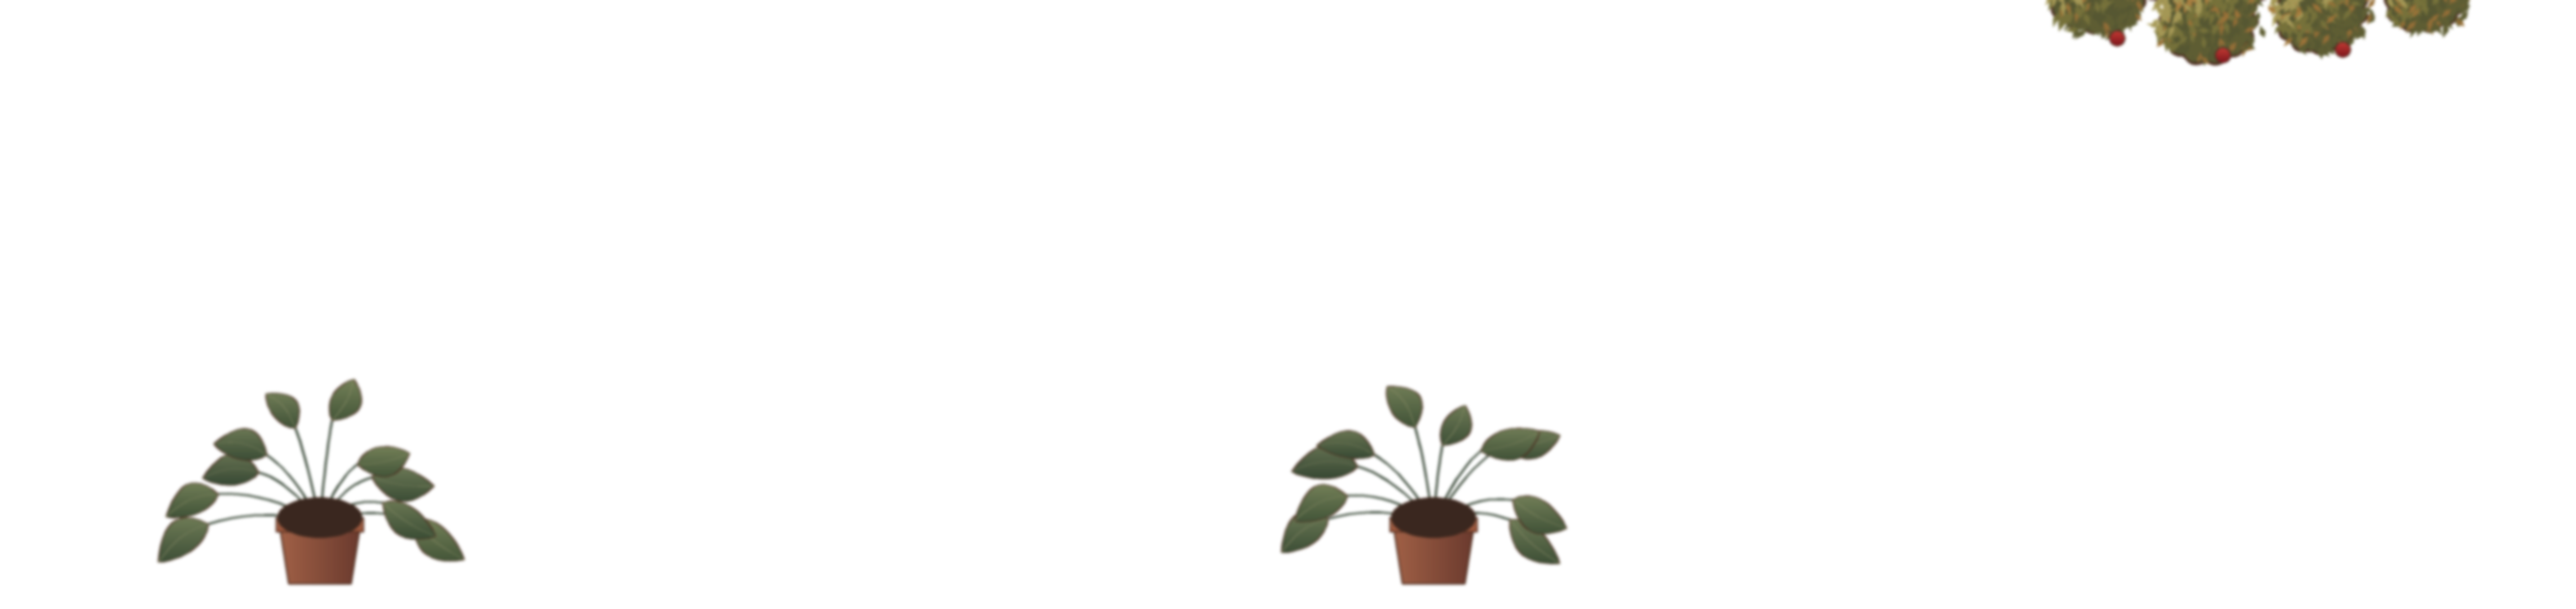
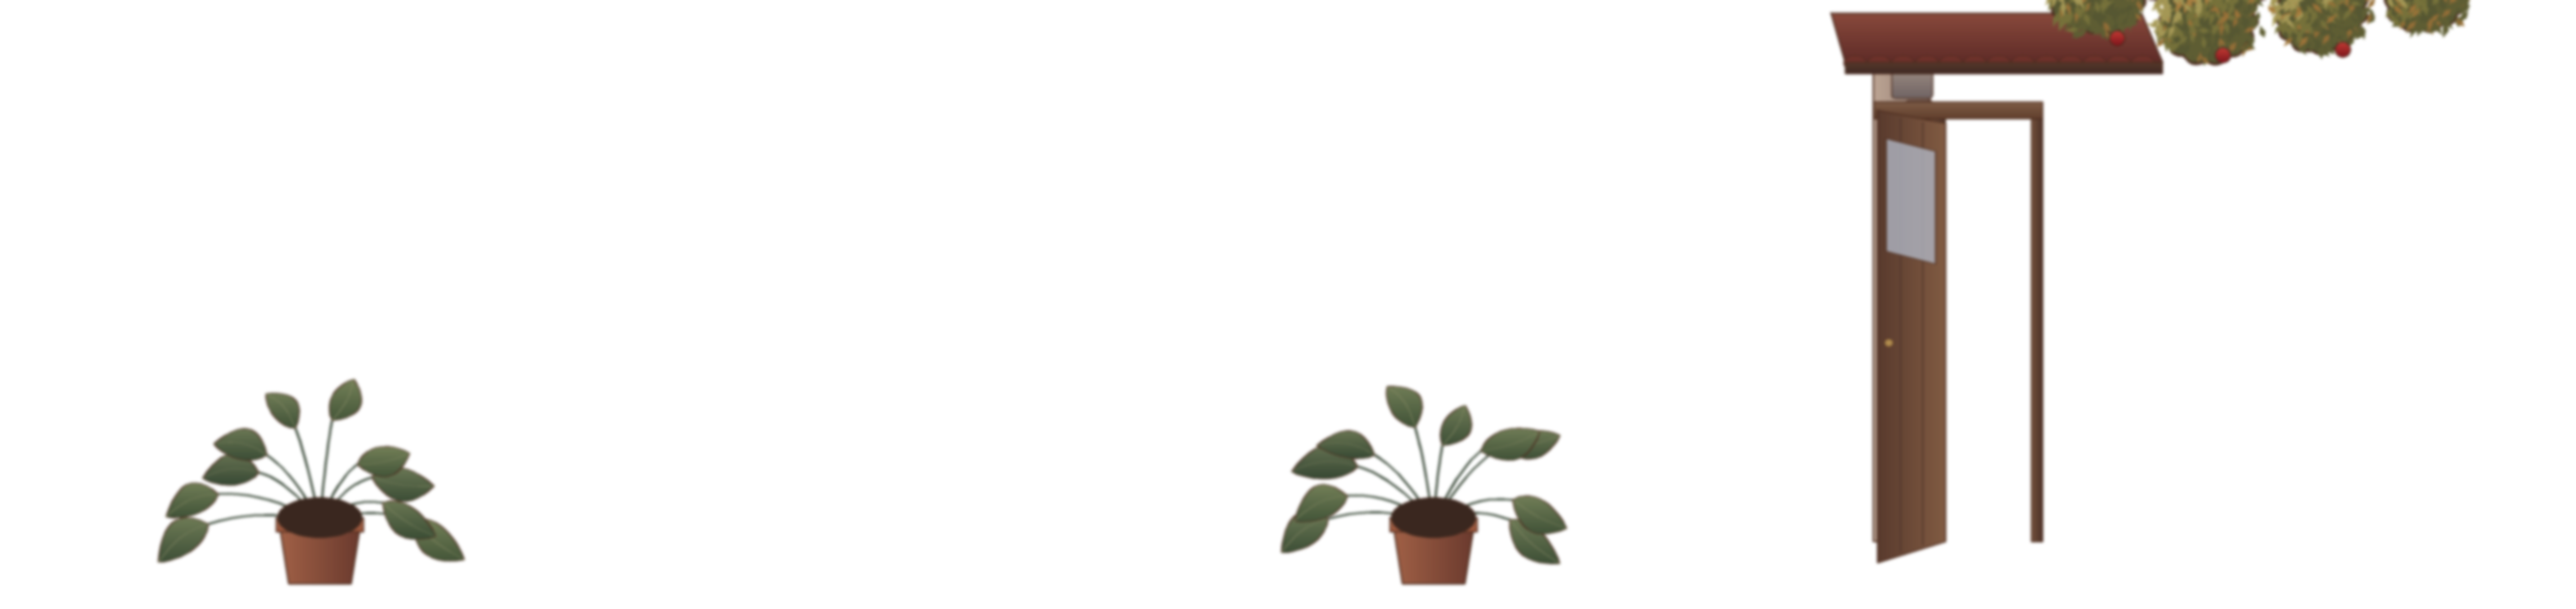
현관 쪽 끝에 문간을 단다 (#151)
옆벽(PerspectivePlane)이 카메라 바로 옆이라 얇은 띠로만 보였다. 맨 앞 층에 카메라를 보는 문간(바깥벽 모서리 돌·문틀·안으로 열린 문·처마)을 세우고 옆벽을 걷었다. 문은 안쪽으로 열려 마당의 하윤·손전등을 가리지 않는다.

Claude-Session: https://claude.ai/code/session_01J4uuBjb9dFExxEE8Rhw3pJ

Changed region(s): [[0.6839, 0.0, 0.8393, 0.9167]]

diff --git a/tools/painters/house_objects.py b/tools/painters/house_objects.py
@@ -460,11 +460,59 @@ def apple_tree(c: Ink, rng, x, base, h=640, apples=18):
         c.grad(ink.ellipse_pts(ax - rr, ay - rr, ax + rr, ay + rr * 0.95), (236, 74, 60, 255), (150, 26, 32, 255), lw=1.4)
         c.ellipse(ax - rr * 0.55, ay - rr * 0.6, ax - rr * 0.15, ay - rr * 0.25, (255, 220, 200, 255), line=False)
 
+# ---------------------------------------------------------------- 현관 문간 (#151)
+
+
+def doorway(c: Ink, x, base, h=600, open_out=True):
+    """집 끝 문간(맨 앞 깊이에 세운다): 바깥벽 모서리 기둥(회반죽 + 모서리 돌) + 문틀 + 바깥으로 열린 나무문 + 위 처마.
+    x = 문간 가운데(세계 x), base = 바닥. 하윤은 이 뒤로 지나간다."""
+    plaster = (226, 206, 172, 255)
+    stone = (178, 168, 150, 255)
+    wood = (118, 80, 52, 255)
+    # 바깥벽 모서리(문 왼쪽): 두꺼운 벽 끝, 모서리 돌이 번갈아
+    wx0, wx1 = x - 120, x - 40
+    c.grad([(wx0, base - h - 120), (wx1, base - h - 120), (wx1, base), (wx0, base)], lite(plaster, 0.1), dark(plaster, 0.18), axis="x", lw=1.8)
+    y = base
+    k = 0
+    while y > base - h - 110:
+        hh = 46 if k % 2 else 38
+        w = 54 if k % 2 else 34
+        c.grad(ink.round_rect_pts(wx1 - w, y - hh, wx1 + 4, y - 3, 5), lite(stone, 0.15), dark(stone, 0.2), lw=1.4)
+        y -= hh
+        k += 1
+    # 문틀(두꺼운 나무 테)
+    c.grad([(wx1, base - h), (wx1 + 22, base - h), (wx1 + 22, base), (wx1, base)], lite(wood, 0.2), dark(wood, 0.2), axis="x", lw=1.6)
+    # 처마: 지붕 끝이 문 위로 나와 있다(기와 줄)
+    roof = (150, 70, 52, 255)
+    ey = base - h - 120
+    c.grad([(wx0 - 60, ey - 30), (x + 260, ey - 30), (x + 290, ey + 40), (wx0 - 40, ey + 40)], lite(roof, 0.15), dark(roof, 0.2), lw=1.8)
+    for k in range(int((x + 290 - wx0 + 40) / 34)):
+        xx = wx0 - 40 + k * 34
+        c.stroke([(xx, ey + 40), (xx + 6, ey + 52)], 3, dark(roof, 0.3))
+        c.ellipse(xx - 2, ey + 30, xx + 30, ey + 52, mix(roof, dark(roof, 0.2), 0.5), lw=1.2)
+    c.grad([(wx0 - 40, ey + 40), (x + 290, ey + 40), (x + 290, ey + 56), (wx0 - 40, ey + 56)], dark(wood, 0.1), dark(wood, 0.35), lw=1.4)
+    # 위 문틀(인방)
+    c.grad([(wx0, base - h - 24), (x + 120, base - h - 24), (x + 120, base - h), (wx0, base - h)], lite(wood, 0.25), wood, lw=1.6)
+    # 오른쪽 문틀
+    c.grad([(x + 104, base - h), (x + 120, base - h), (x + 120, base), (x + 104, base)], lite(wood, 0.15), dark(wood, 0.2), axis="x", lw=1.4)
+    # 안쪽(집 안)으로 열린 문짝: 왼쪽 문틀 경첩에서 화면 앞쪽으로 돌아 짧아 보인다 — 마당 쪽 하윤·손전등을 가리지 않게
+    if open_out:
+        hx = wx1 + 22
+        dw = 96
+        door = (140, 96, 62, 255)
+        top_a, top_b = base - h + 6, base - h + 6 - 18
+        c.grad([(hx - dw, top_b), (hx, top_a), (hx, base), (hx - dw, base + 30)], dark(door, 0.2), lite(door, 0.15), axis="x", lw=1.8)
+        for t in (0.33, 0.66):
+            c.stroke([(hx - dw * t, top_a - 18 * t + 6), (hx - dw * t, base + 30 * t - 6)], 1.4, dark(door, 0.3))
+        c.poly([(hx - dw + 12, top_b + 40), (hx - 14, top_a + 40), (hx - 14, top_a + 200), (hx - dw + 12, top_b + 200)], (214, 232, 230, 200), lw=1.4)
+        c.ellipse(hx - dw + 10, base - h * 0.48, hx - dw + 22, base - h * 0.48 + 12, (214, 176, 90, 255), lw=1.2)
+
 OBJECTS = {
     "armchair": (armchair, 420, 340), "side_table": (side_table, 200, 360), "yarn_basket": (yarn_basket, 160, 140),
     "ladder_chair": (ladder_chair, 200, 380), "dining_table": (dining_table, 420, 260), "rocking_chair": (rocking_chair, 320, 420),
     "newspapers": (newspapers, 140, 90),
     "apple": (lambda c, x, b: apple_tree_canopy(c, __import__("random").Random(3), x, b - 200), 640, 420),
+    "doorway": (lambda c, x, b: doorway(c, x, b), 700, 800),
     "tree": (lambda c, x, b: apple_tree(c, __import__("random").Random(7), x, b), 900, 700),
     "plant": (lambda c, x, b: potted_plant(c, x, b, __import__("random").Random(5)), 520, 360),
 }

diff --git a/tools/painters/house_down.py b/tools/painters/house_down.py
@@ -658,6 +658,10 @@ def front_world(width: float, mk, rng) -> Image.Image:
     import house_objects as O
     for px in (2700, 4300, 5880):  # 큰 화분(화면 아래 가장자리에서 잎이 올라온다)
         O.potted_plant(c, px, FLOOR_W + 60, rng, 1.0)
+    # 현관 문간: 집 끝 바깥벽 모서리 + 문틀 + 바깥으로 열린 문 + 처마(맨 앞 깊이, 하윤이 이 뒤로 지나 마당으로 나간다).
+    # 옆벽을 원근으로 세웠더니 카메라가 바로 옆이라 얇은 띠로만 보였다.
+    O.doorway(c, YARD_X - 46, FLOOR_W)
+
     # 마당 사과나무 가지(화면 위에서 늘어진다): 나무와 같은 잎 뭉치
     ax = mk("1-6", 7110.0) + 40
     O._limb(c, ax - 460, -30, ax - 120, 40, 26, 16, bend=20)

diff --git a/tools/painters/house.py b/tools/painters/house.py
@@ -574,7 +574,6 @@ def paint(width: float, markers: dict[str, float]) -> dict:
     _save(floor, "room_house_floor")
     _save(floor_glow, "room_house_floor_glow")
     _save(D.ceiling_texture(rng), "room_house_ceiling")
-    _save(D.endwall_texture(True, rng), "room_house_endwall_door")
     _save(D.endwall_texture(False, rng), "room_house_endwall")
     for name, (_wx0, wy0, _wx1, wy1, col) in zip(("living", "study"), D.WINDOWS[:2]):
         h = wy1 - wy0 + 120

diff --git a/CLAUDE.md b/CLAUDE.md
@@ -62,7 +62,7 @@
 - `greybox = true`면 `place.gd`가 회색 네모 배경을 만든다. 그림이 들어오면 끈다.
 - `Horizon`·`Hills`·`Near`는 깊이를 더 줄 때만 쓰는 층이다(#140). 그림 이름 `bg_<place>_horizon|hills|near`.
 - **카메라 구역**(`Place.camera_rooms`, #151): 경계 x 목록. 경계마다 벽(하윤·하늘이 모두)이 서고, 카메라(`main._apply_camera_room`)는 하윤이 있는 구역 밖을 보여 주지 않는다. 구역 사이는 Passage로 다닌다. 집: `[1920]` — 다락(0~1920, 한 화면) / 아래층(1920~7680). 다른 구역의 장면 표시는 스모크 검사가 x 순서를 보지 않는다.
-- **방 원근**(#151, 집 아래층): 방을 깊이(스크롤 빠르기 s)가 다른 판으로 나눈다 — 뒷벽 `Near`(0.8), 방 가운데 가구 `Layers/Furniture`(Parallax2D 0.95, `room_house_furniture.png`, 그림 가져오기 도구가 안 건드린다), 하윤(1), `Front`(1.25). 판마다 세계 크기로 그려 소실점(960, 210)을 축으로 s배 줄인다(`ink.to_plane`). 바닥·천장은 `Room`(`scripts/game/room_perspective.gd`, `RoomPerspective`) 아래 Polygon2D에 `shaders/room_plane.gdshader` — 그림은 평면 좌표(p = 세계 x) × 화면 줄이고, 줄마다 깊이로 미끄러뜨려 읽어 판자가 소실점으로 모인다(바닥 y = 210 + 600·s, 천장 y = 210 − 112.5·s). 옆벽은 `PerspectivePlane`(평면 x 하나, 깊이 구간, 하윤 앞·뒤로 나눔), 창 빛줄기는 `LightShaft`(벽 창 → 바닥, 숨 쉬듯 밝기, 먼지). `RoomPerspective`가 매 프레임 카메라 왼쪽 끝을 넣는다. 다락 카메라 구역에서는 감춘다(`room_left`). 수를 바꾸면 `tools/painters/house_down.py`와 같이 고친다. 영정(`Portraits_1-2`)은 벽에 걸려 뒷벽 층 안에 있다(0.8배).
+- **방 원근**(#151, 집 아래층): 방을 깊이(스크롤 빠르기 s)가 다른 판으로 나눈다 — 뒷벽 `Near`(0.8), 방 가운데 가구 `Layers/Furniture`(Parallax2D 0.95, `room_house_furniture.png`, 그림 가져오기 도구가 안 건드린다), 하윤(1), `Front`(1.25). 판마다 세계 크기로 그려 소실점(960, 210)을 축으로 s배 줄인다(`ink.to_plane`). 바닥·천장은 `Room`(`scripts/game/room_perspective.gd`, `RoomPerspective`) 아래 Polygon2D에 `shaders/room_plane.gdshader` — 그림은 평면 좌표(p = 세계 x) × 화면 줄이고, 줄마다 깊이로 미끄러뜨려 읽어 판자가 소실점으로 모인다(바닥 y = 210 + 600·s, 천장 y = 210 − 112.5·s). 옆벽은 `PerspectivePlane`(평면 x 하나, 깊이 구간, 하윤 앞·뒤로 나눔 — 지금은 방 왼쪽 끝만. 현관 쪽 끝은 카메라가 바로 옆이라 옆벽이 얇은 띠로만 보여서, 맨 앞 층에 카메라를 보는 문간(`house_objects.doorway`: 바깥벽 모서리·문틀·안으로 열린 문·처마)을 세웠다), 창 빛줄기는 `LightShaft`(벽 창 → 바닥, 숨 쉬듯 밝기, 먼지). `RoomPerspective`가 매 프레임 카메라 왼쪽 끝을 넣는다. 다락 카메라 구역에서는 감춘다(`room_left`). 수를 바꾸면 `tools/painters/house_down.py`와 같이 고친다. 영정(`Portraits_1-2`)은 벽에 걸려 뒷벽 층 안에 있다(0.8배).
 - **움직이는 배경**(#151): 커튼·사과나무 잎(`shaders/sway.gdshader`, 그림 둘레에 여백), 벽·바닥 창빛의 나뭇잎 그림자(`shaders/dapple.gdshader`, `room_plane`의 `glow_tex`), 시계 추(`scripts/game/swing.gd`), 촛불(`scripts/game/flicker.gd` + 더하기 빛). 조각 그림은 `room_house_*.png`(`house.py`가 같이 만든다).
 - **물건은 따로 떼어 보면서 그린다**(#151): 집 물건은 `tools/painters/house_objects.py`(세계 크기, 원점 = 물건 바닥 가운데, 위를 향한 면은 `top_h`만큼 보인다). `python3 house_objects.py <이름…> <출력.png>`(`tools/painters`에서, `PYTHONPATH=..:.`)로 물건만 2배로 그려 보고 고친 뒤 배경에 넣는다. 화면 확인은 `--resolution 1920x1080`으로 찍어 넷으로 잘라 원래 크기로 본다 — 줄여 붙인 그림으로만 보다가 이상한 모양(빗 같은 의자, 바위 같은 나무 등)을 놓쳤다. 나뭇잎은 `leaf_mass`(셀 그늘 조개 모양 덩어리, 바깥 윤곽만 선).
 - **컷신 화풍 배경**(#151, 지금은 집만): `tools/painters/ink.py`(`Ink`: 2배로 칠하고 갈색 윤곽선, `grad` 그라데이션 칠, `cast=True`로 그린 모양은 `drop_shadow`(빛 반대쪽 흐린 그림자)·`rim_light`(빛 쪽 가장자리 빛)에 쓰인다, `glaze` 반투명 덧칠(그릴 곳만 잘라 합성 — 통째로 하면 몇 분 걸린다), `planks_v/h` 판자, `LightMap` 빛 지도 → `light()`로 꿀빛/보랏빛 그늘, `rays` 빛줄기, `motes` 먼지, `bokeh` 빛망울, `soften` 앞 층 흐림). 벽·바닥(ground)과 물건(props)은 같은 빛 지도를 쓴다. 창은 `erase`로 구멍을 뚫어 뒤 층이 비친다. 앞 층에는 하윤을 가리는 세로 기둥을 두지 않는다.
